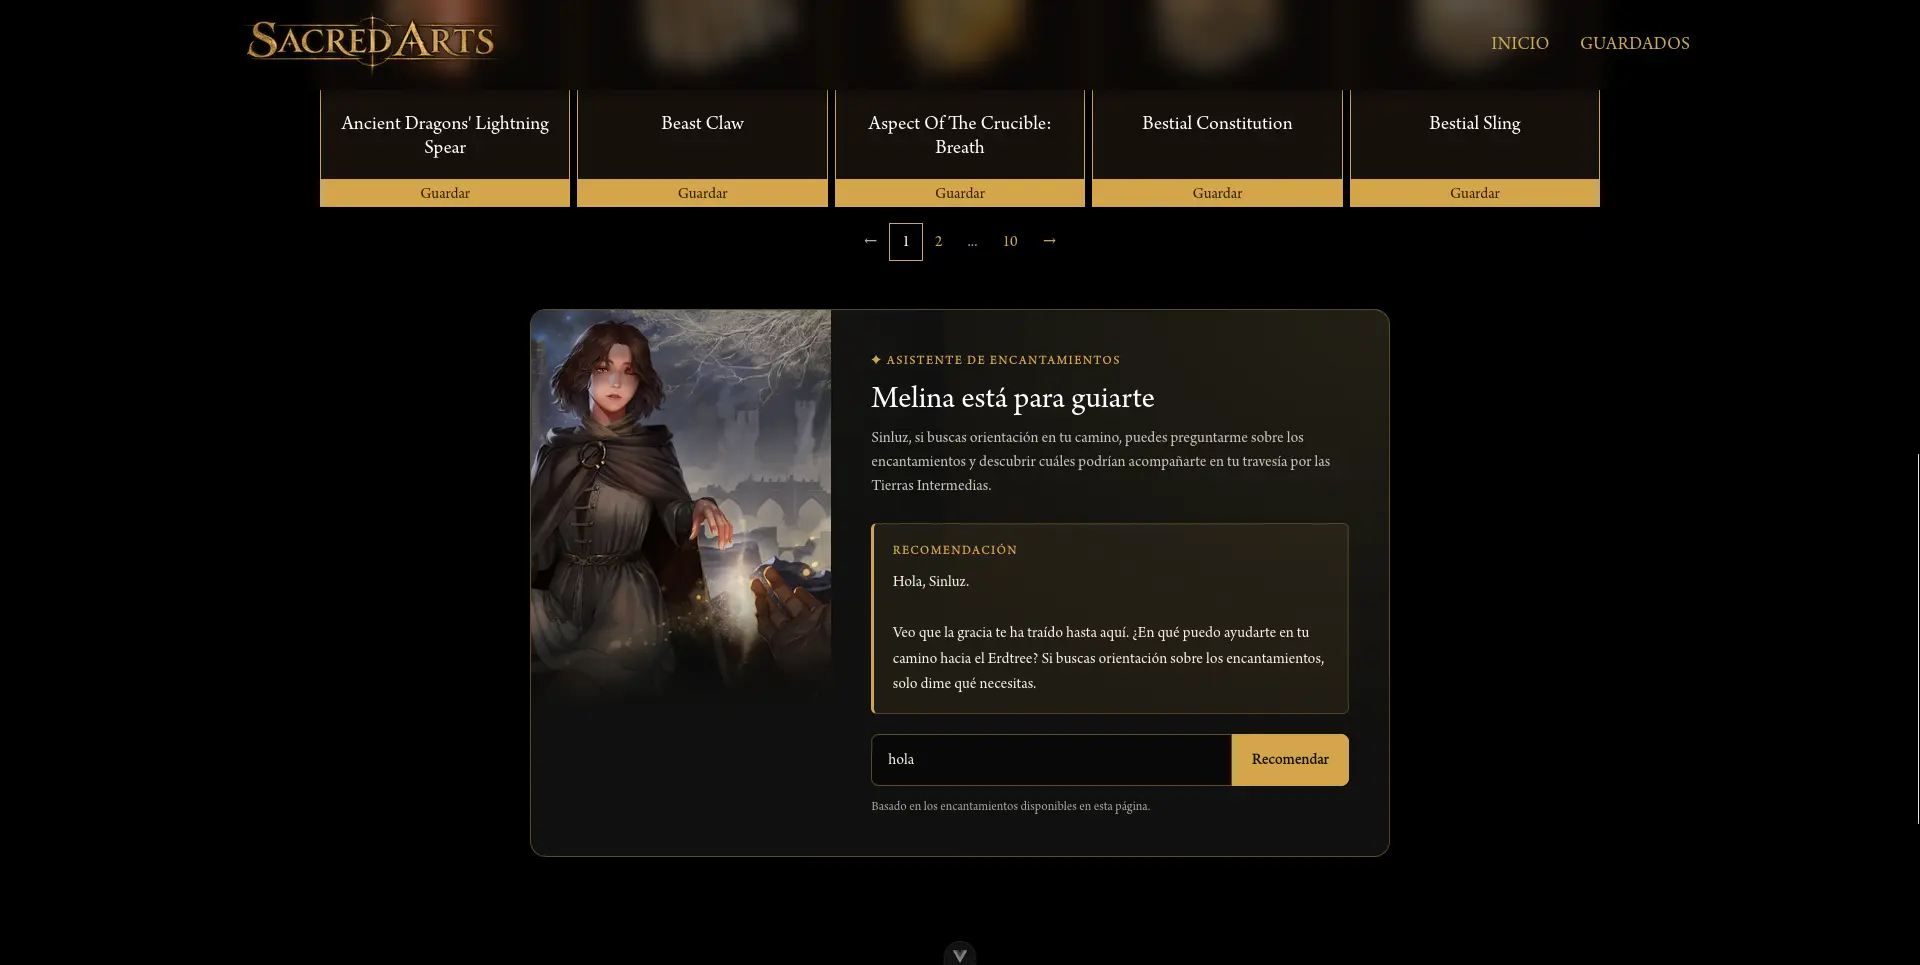
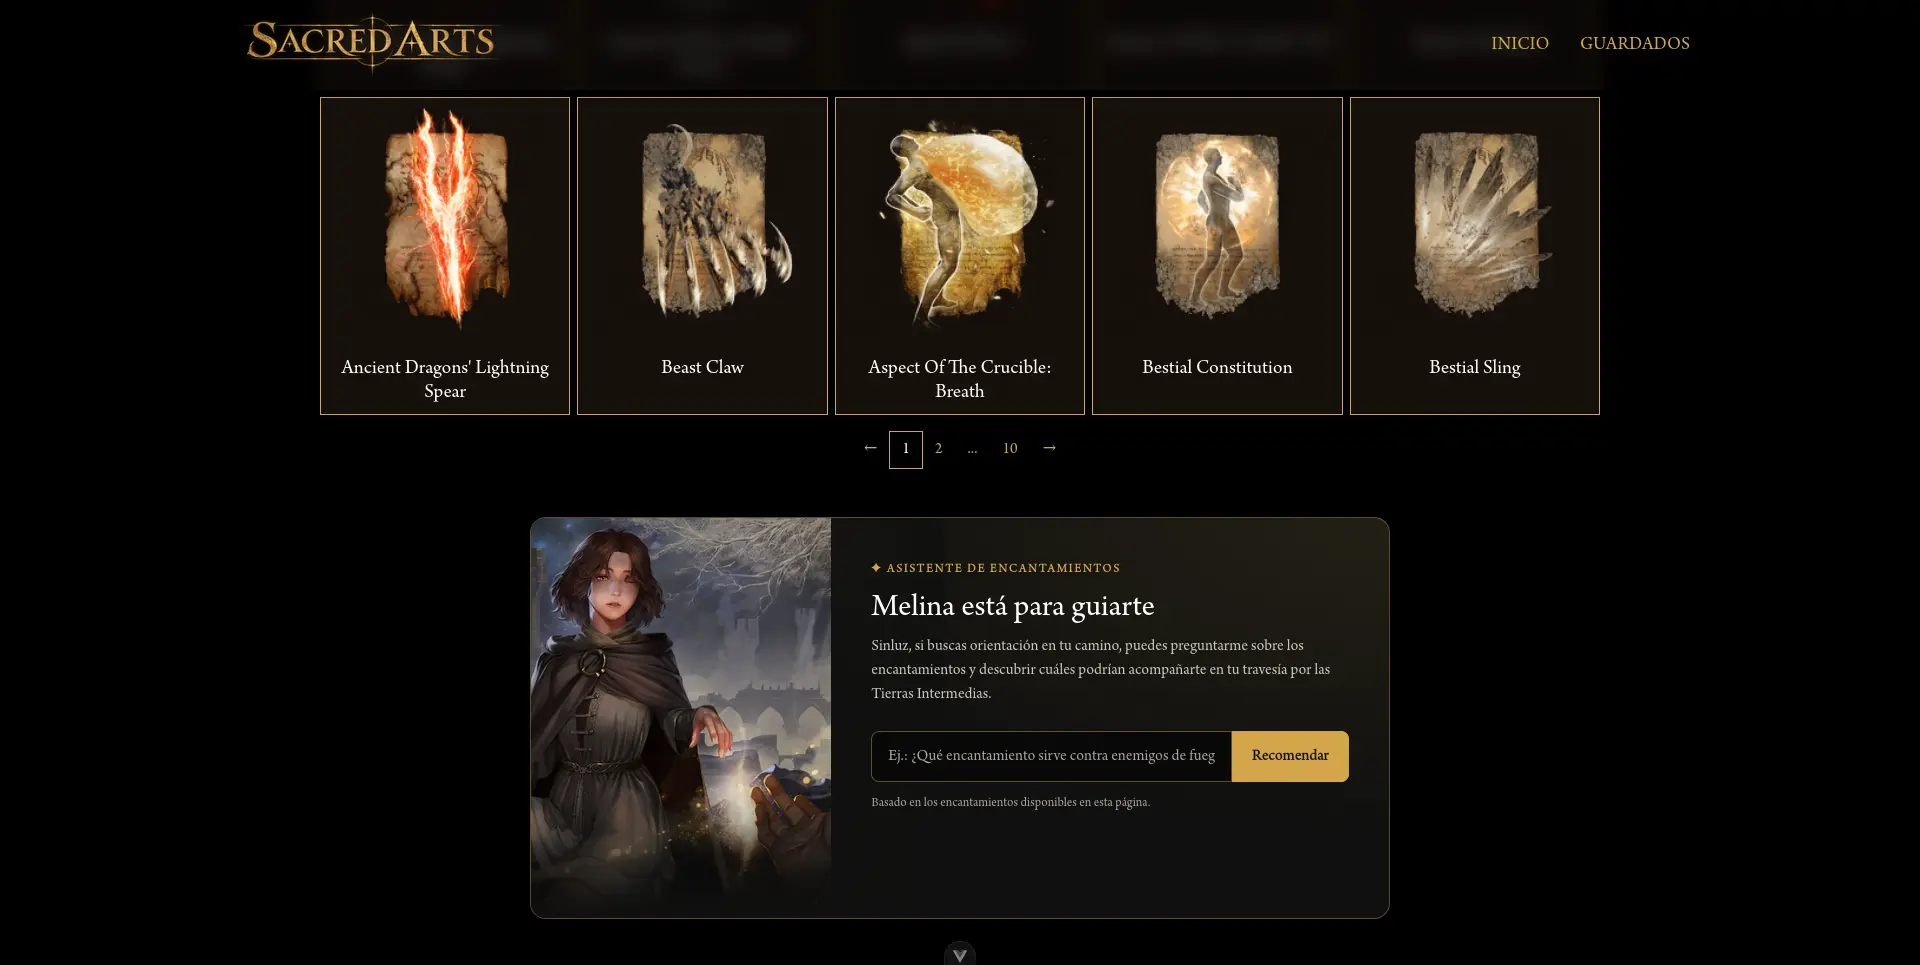
mejoras diseño

diff --git a/src/style.scss b/src/style.scss
@@ -241,6 +241,7 @@ nav .btn-primary{
     padding: 0;
     border-color: var(--dorado);
     border-radius: 0;
+    margin: 0;
 }
 #encantamientos article img, #e-guardados article img{
   transform: scale(0.95);
@@ -271,7 +272,7 @@ nav .btn-primary{
 }
 #encantamientos article h5, #e-guardados article h5{
   padding: 0 0.5em;
-  margin: 0.5em 0 0 0;
+  margin: 0.5em 0 0.5em 0;
 }
 .btn-quitar {
   background-color: #3c2a0e!important;

diff --git a/src/views/Encantamientos.vue b/src/views/Encantamientos.vue
@@ -197,14 +197,6 @@ onMounted(cargar)
 
           <div class="card-body">
             <h5 class="card-title">{{ e.name }}</h5>
-
-            <button
-              class="btn"
-              :class="estaGuardado(e.id) ? 'btn-quitar' : 'btn-primary'"
-              @click.stop="alternar(e)"
-            >
-              {{ estaGuardado(e.id) ? "Guardado" : "Guardar" }}
-            </button>
           </div>
         </article>
 

diff --git a/src/components/Recomendador.vue b/src/components/Recomendador.vue
@@ -307,6 +307,7 @@ ${JSON.stringify(props.encantamientos)}`
   color: #fff;
   font-size: clamp(1.5rem, 4vw, 2rem) !important;
   text-align: left !important;
+  justify-self: left!important;
 }
 
 .recomendador-descripcion {
